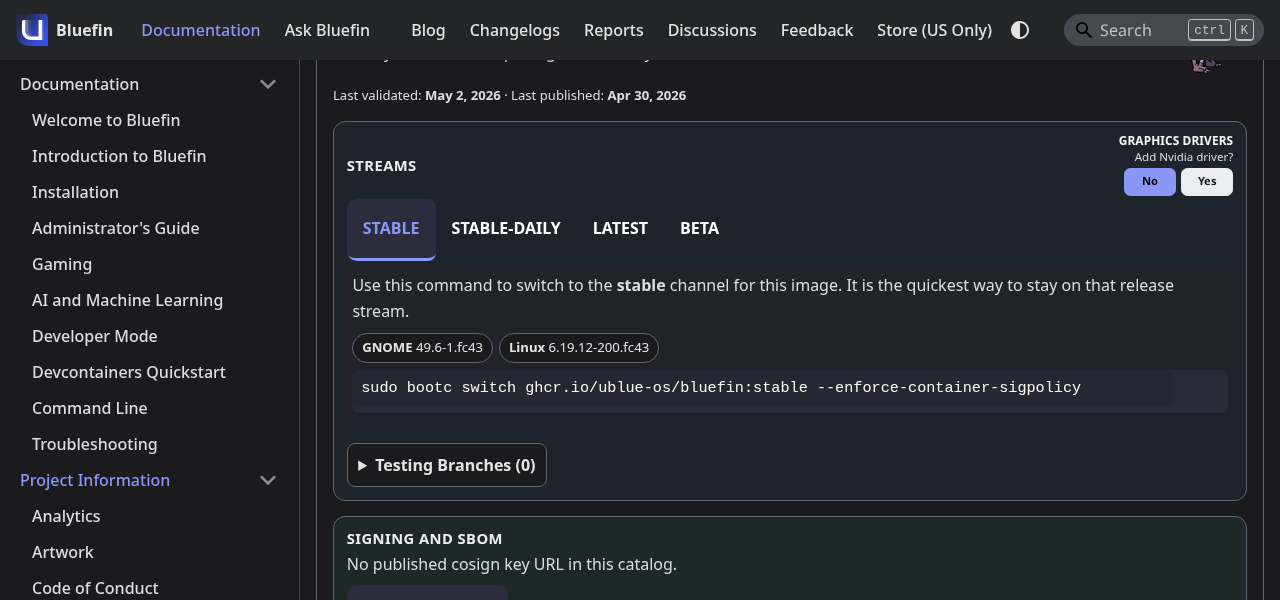
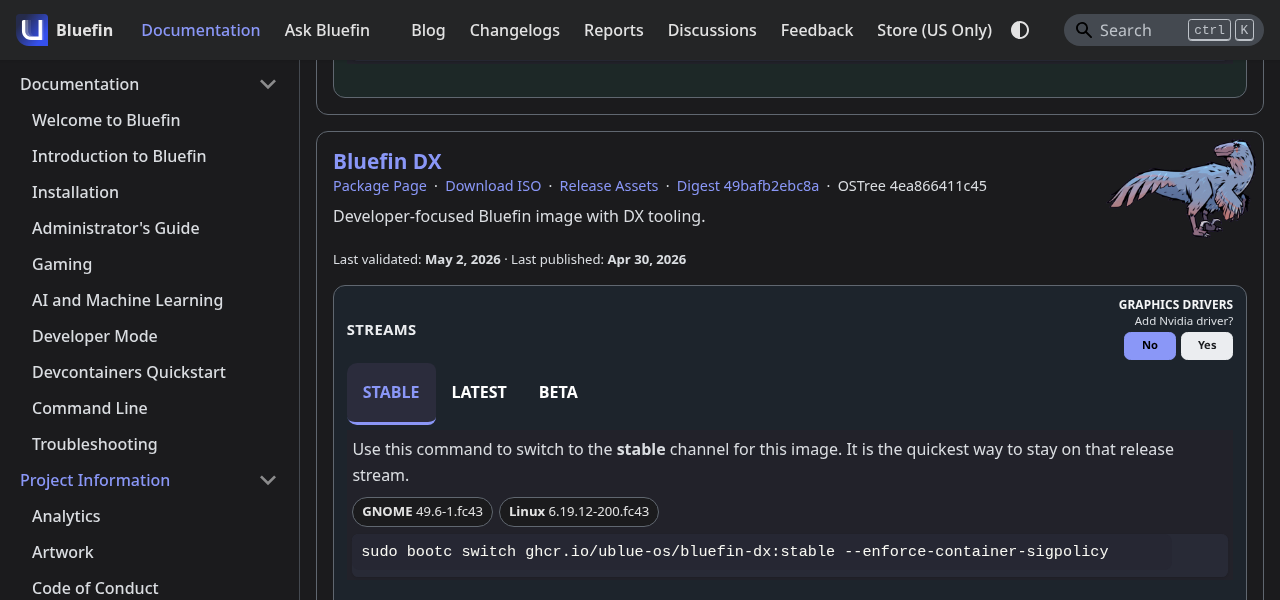
fix(blog): retake music/images screenshots; remove all emojis
- music.png: scroll to 'Forming the Kettle' section (dinosaur cards)
- images.png: scroll to Bluefin DX with raptor art + GRAPHICS DRIVERS toggle
- Remove 🎵 from music widget label
- Remove icon emoji props from DocsFeatureGrid (icon made optional)

Assisted-by: Claude Sonnet 4.6 via GitHub Copilot

diff --git a/src/components/MusicPlaylist.tsx b/src/components/MusicPlaylist.tsx
@@ -117,7 +117,7 @@ const MusicPlaylist: React.FC<MusicPlaylistProps> = ({
           {thumbnailEl}
         </a>
         <div className={styles.infoRow}>
-          <span className={styles.label}>🎵 RELEASE SOUNDTRACK TO HUNT BY</span>
+          <span className={styles.label}>RELEASE SOUNDTRACK TO HUNT BY</span>
           <a
             href={playlistUrl}
             target="_blank"
@@ -143,7 +143,7 @@ const MusicPlaylist: React.FC<MusicPlaylistProps> = ({
 
       {/* Middle: label + title + description */}
       <div className={styles.infoZone}>
-        <span className={styles.label}>🎵 RELEASE SOUNDTRACK TO HUNT BY</span>
+        <span className={styles.label}>RELEASE SOUNDTRACK TO HUNT BY</span>
         <a
           href={metadata?.playlistUrl ?? playlistUrl}
           target="_blank"

diff --git a/src/components/blog/DocsFeatureGrid.tsx b/src/components/blog/DocsFeatureGrid.tsx
@@ -2,7 +2,7 @@ import React from "react";
 import styles from "./DocsFeatureGrid.module.css";
 
 interface DocsFeature {
-  icon: string;
+  icon?: string;
   title: string;
   href: string;
   description: string;
@@ -19,7 +19,7 @@ const DocsFeatureGrid: React.FC<DocsFeatureGridProps> = ({ features }) => (
     {features.map((f) => (
       <div key={f.href} className={styles.row}>
         <div className={styles.textSide}>
-          <span className={styles.icon}>{f.icon}</span>
+          {f.icon && <span className={styles.icon}>{f.icon}</span>}
           <a
             href={f.href}
             target="_blank"
